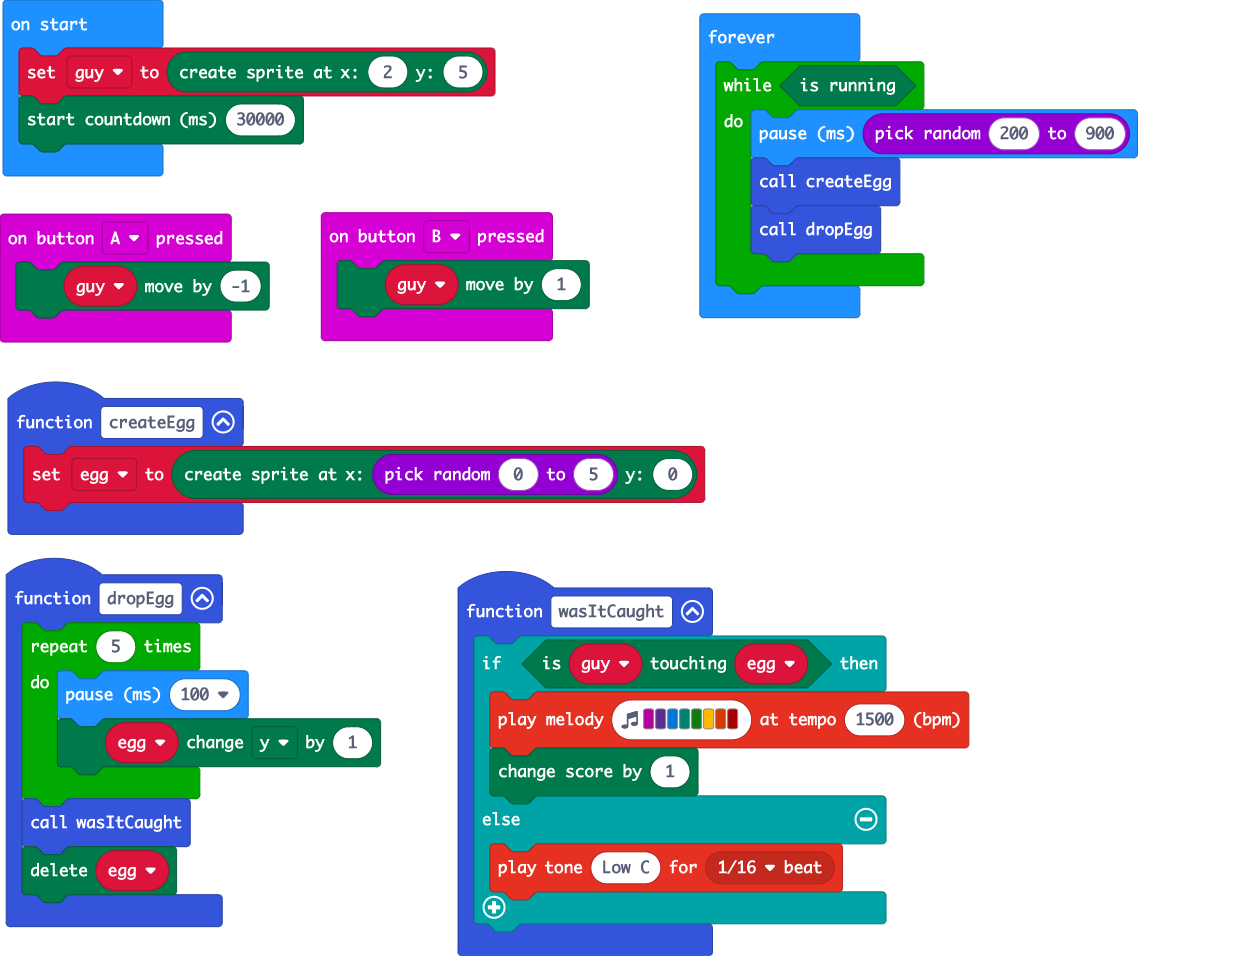
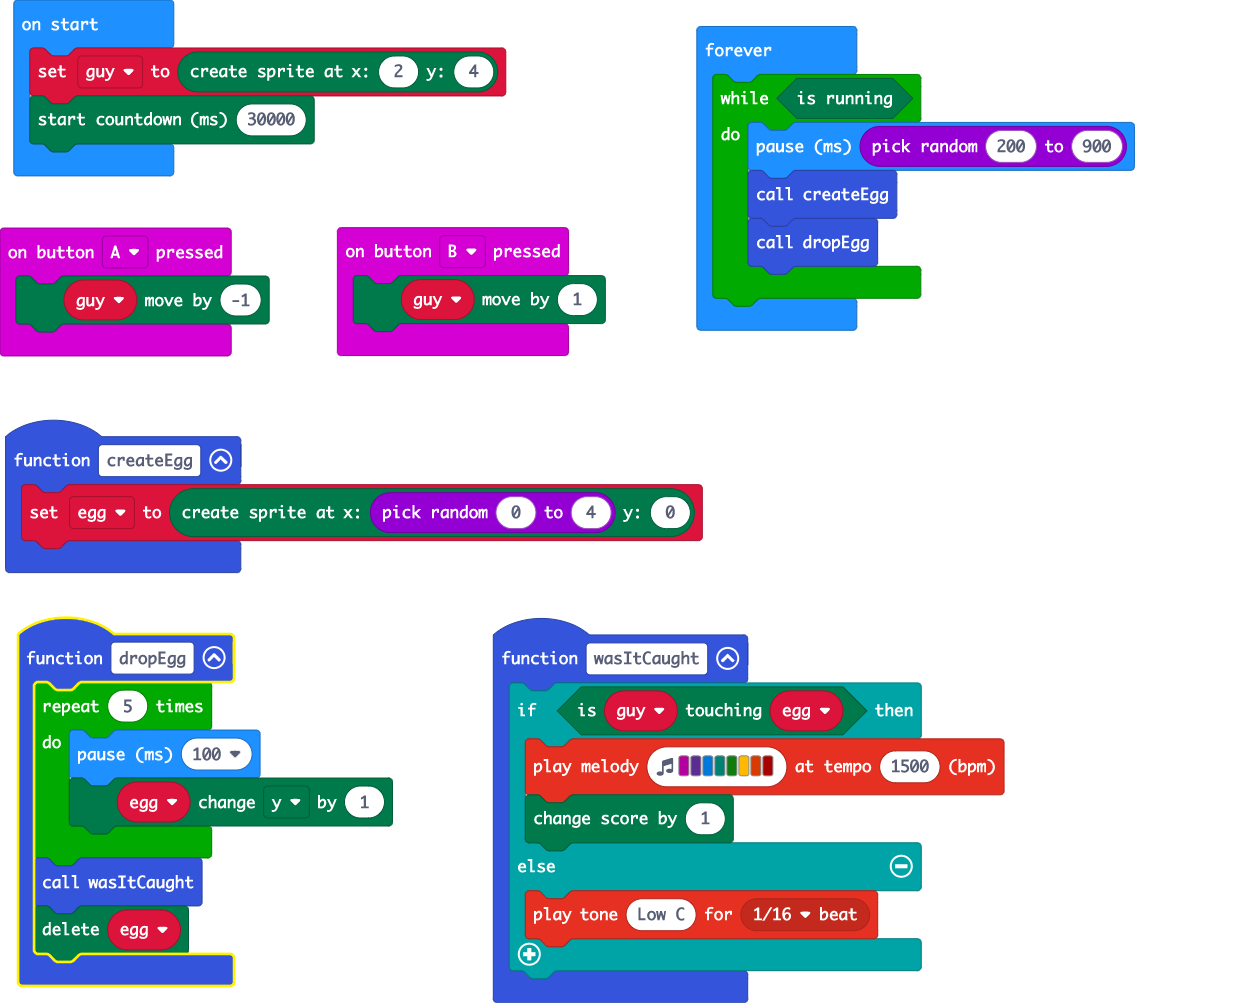
Update main.blocks, main.ts

diff --git a/main.ts b/main.ts
@@ -1,5 +1,5 @@
 function createEgg () {
-    egg = game.createSprite(randint(0, 5), 0)
+    egg = game.createSprite(randint(0, 4), 0)
 }
 input.onButtonPressed(Button.A, function () {
     guy.move(-1)
@@ -25,7 +25,7 @@ function wasItCaught () {
 }
 let egg: game.LedSprite = null
 let guy: game.LedSprite = null
-guy = game.createSprite(2, 5)
+guy = game.createSprite(2, 4)
 game.startCountdown(30000)
 basic.forever(function () {
     while (game.isRunning()) {
